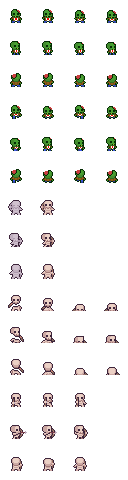
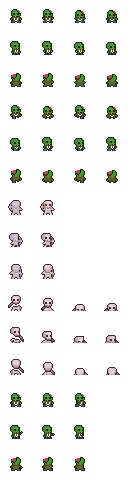
Animated zombie attack

Changed region(s): [[0.5625, 0.8125, 0.6875, 1.0], [0.3125, 0.8125, 0.4375, 1.0], [0.0625, 0.8125, 0.1875, 1.0]]

diff --git a/src/Entities/Players/Zombie.java b/src/Entities/Players/Zombie.java
@@ -222,7 +222,55 @@ public class Zombie extends Player{
                 }
             }
         } else if (attacking && !inAbility) {
-
+            if (direction == 'd') {
+                switch (animationState) {
+                    case 0:
+                        g2.drawImage(sprites, (int) screenX, (int) screenY, (int) screenX + getWidth(), (int) screenY + this.getHeight(), column1, row13, column1 + Tile.normalTileSize, row13 + Tile.normalTileSize, transparent, null);
+                        break;
+                    case 1, 2:
+                        g2.drawImage(sprites, (int) screenX, (int) screenY, (int) screenX + getWidth(), (int) screenY + this.getHeight(), column2, row13, column2 + Tile.normalTileSize, row13 + Tile.normalTileSize, transparent, null);
+                        break;
+                    case 3:
+                        g2.drawImage(sprites, (int) screenX, (int) screenY, (int) screenX + getWidth(), (int) screenY + this.getHeight(), column3, row13, column3 + Tile.normalTileSize, row13 + Tile.normalTileSize, transparent, null);
+                        break;
+                }
+            } else if (direction == 'r') {
+                switch (animationState) {
+                    case 0:
+                        g2.drawImage(sprites, (int) screenX, (int) screenY, (int) screenX + getWidth(), (int) screenY + this.getHeight(), column1, row14, column1 + Tile.normalTileSize, row14 + Tile.normalTileSize, transparent, null);
+                        break;
+                    case 1, 2:
+                        g2.drawImage(sprites, (int) screenX, (int) screenY, (int) screenX + getWidth(), (int) screenY + this.getHeight(), column2, row14, column2 + Tile.normalTileSize, row14 + Tile.normalTileSize, transparent, null);
+                        break;
+                    case 3:
+                        g2.drawImage(sprites, (int) screenX, (int) screenY, (int) screenX + getWidth(), (int) screenY + this.getHeight(), column3, row14, column3 + Tile.normalTileSize, row14 + Tile.normalTileSize, transparent, null);
+                        break;
+                }
+            } else if (direction == 'u') {
+                switch (animationState) {
+                    case 0:
+                        g2.drawImage(sprites, (int) screenX, (int) screenY, (int) screenX + getWidth(), (int) screenY + this.getHeight(), column1, row15, column1 + Tile.normalTileSize, row15 + Tile.normalTileSize, transparent, null);
+                        break;
+                    case 1, 2:
+                        g2.drawImage(sprites, (int) screenX, (int) screenY, (int) screenX + getWidth(), (int) screenY + this.getHeight(), column2, row15, column2 + Tile.normalTileSize, row15 + Tile.normalTileSize, transparent, null);
+                        break;
+                    case 3:
+                        g2.drawImage(sprites, (int) screenX, (int) screenY, (int) screenX + getWidth(), (int) screenY + this.getHeight(), column3, row15, column3 + Tile.normalTileSize, row15 + Tile.normalTileSize, transparent, null);
+                        break;
+                }
+            } else {
+                switch (animationState) {
+                    case 0:
+                        g2.drawImage(sprites, (int) screenX + getWidth(), (int) screenY, (int) screenX, (int) screenY + this.getHeight(), column1, row14, column1 + Tile.normalTileSize, row14 + Tile.normalTileSize, transparent, null);
+                        break;
+                    case 1, 2:
+                        g2.drawImage(sprites, (int) screenX + getWidth(), (int) screenY, (int) screenX, (int) screenY + this.getHeight(), column2, row14, column2 + Tile.normalTileSize, row14 + Tile.normalTileSize, transparent, null);
+                        break;
+                    case 3:
+                        g2.drawImage(sprites, (int) screenX + getWidth(), (int) screenY, (int) screenX, (int) screenY + this.getHeight(), column3, row14, column3 + Tile.normalTileSize, row14 + Tile.normalTileSize, transparent, null);
+                        break;
+                }
+            }
         }
     }
 

diff --git a/src/Handlers/Attacks/AttackHandler.java b/src/Handlers/Attacks/AttackHandler.java
@@ -126,7 +126,7 @@ public class AttackHandler {
         } else if (p.type == 'g') {
             createPlayerStab(20 * Tile.tileRatio, 10 * Tile.tileRatio, p.direction, p, 0, 0, 30);
         } else if (p.type == 'z') {
-            createPlayerSwing(15 * Tile.tileRatio, 20 * Tile.tileRatio, p.direction, p, 0, 0, 30);
+            createPlayerSwing(15 * Tile.tileRatio, 20 * Tile.tileRatio, p.direction, p, 0, 0, 36);
         } else if (p.type == 'v') {
             createMelee(1.0, (10 * Tile.tileRatio), 10 * Tile.tileRatio, p.direction, p, 0, 0, 15);
         }
